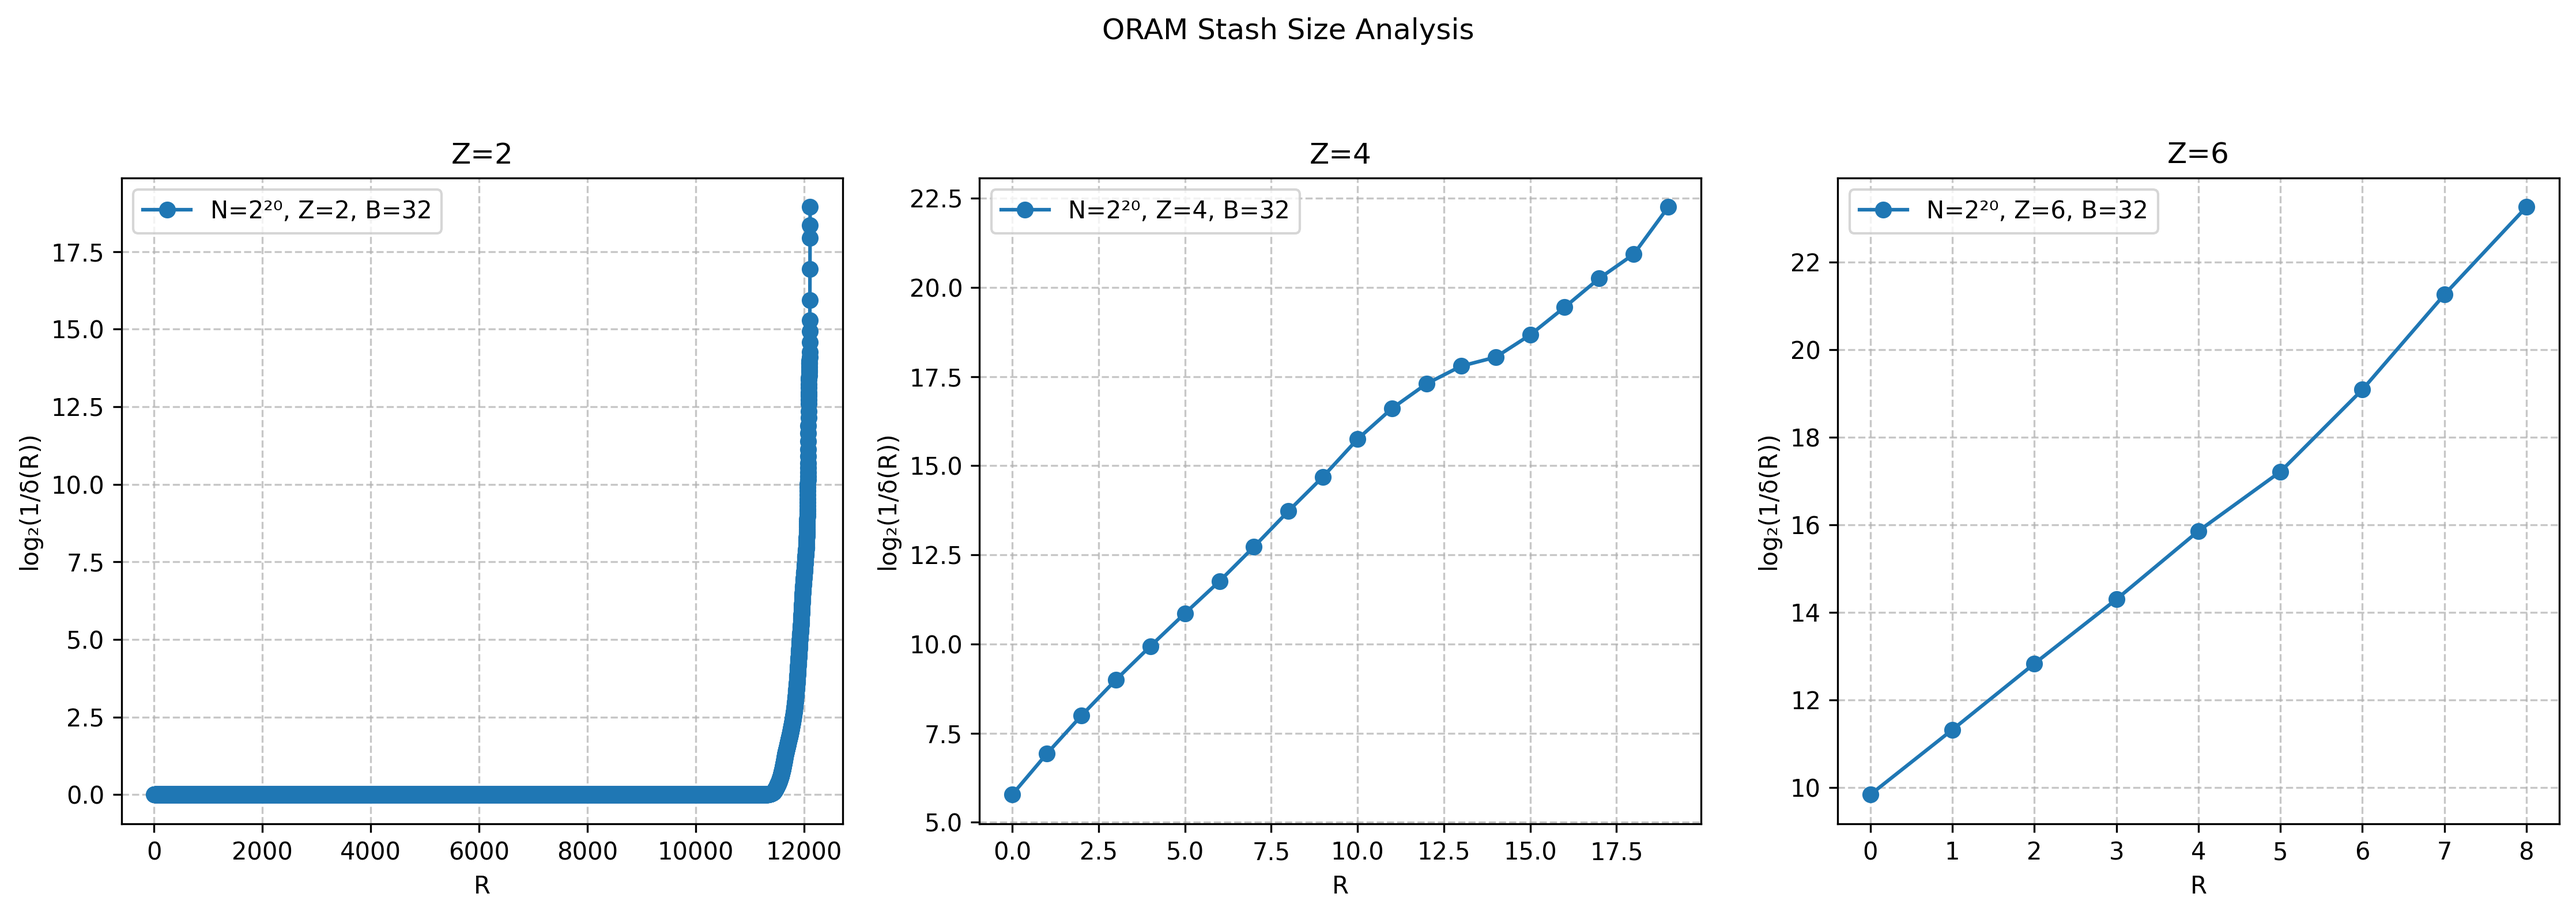
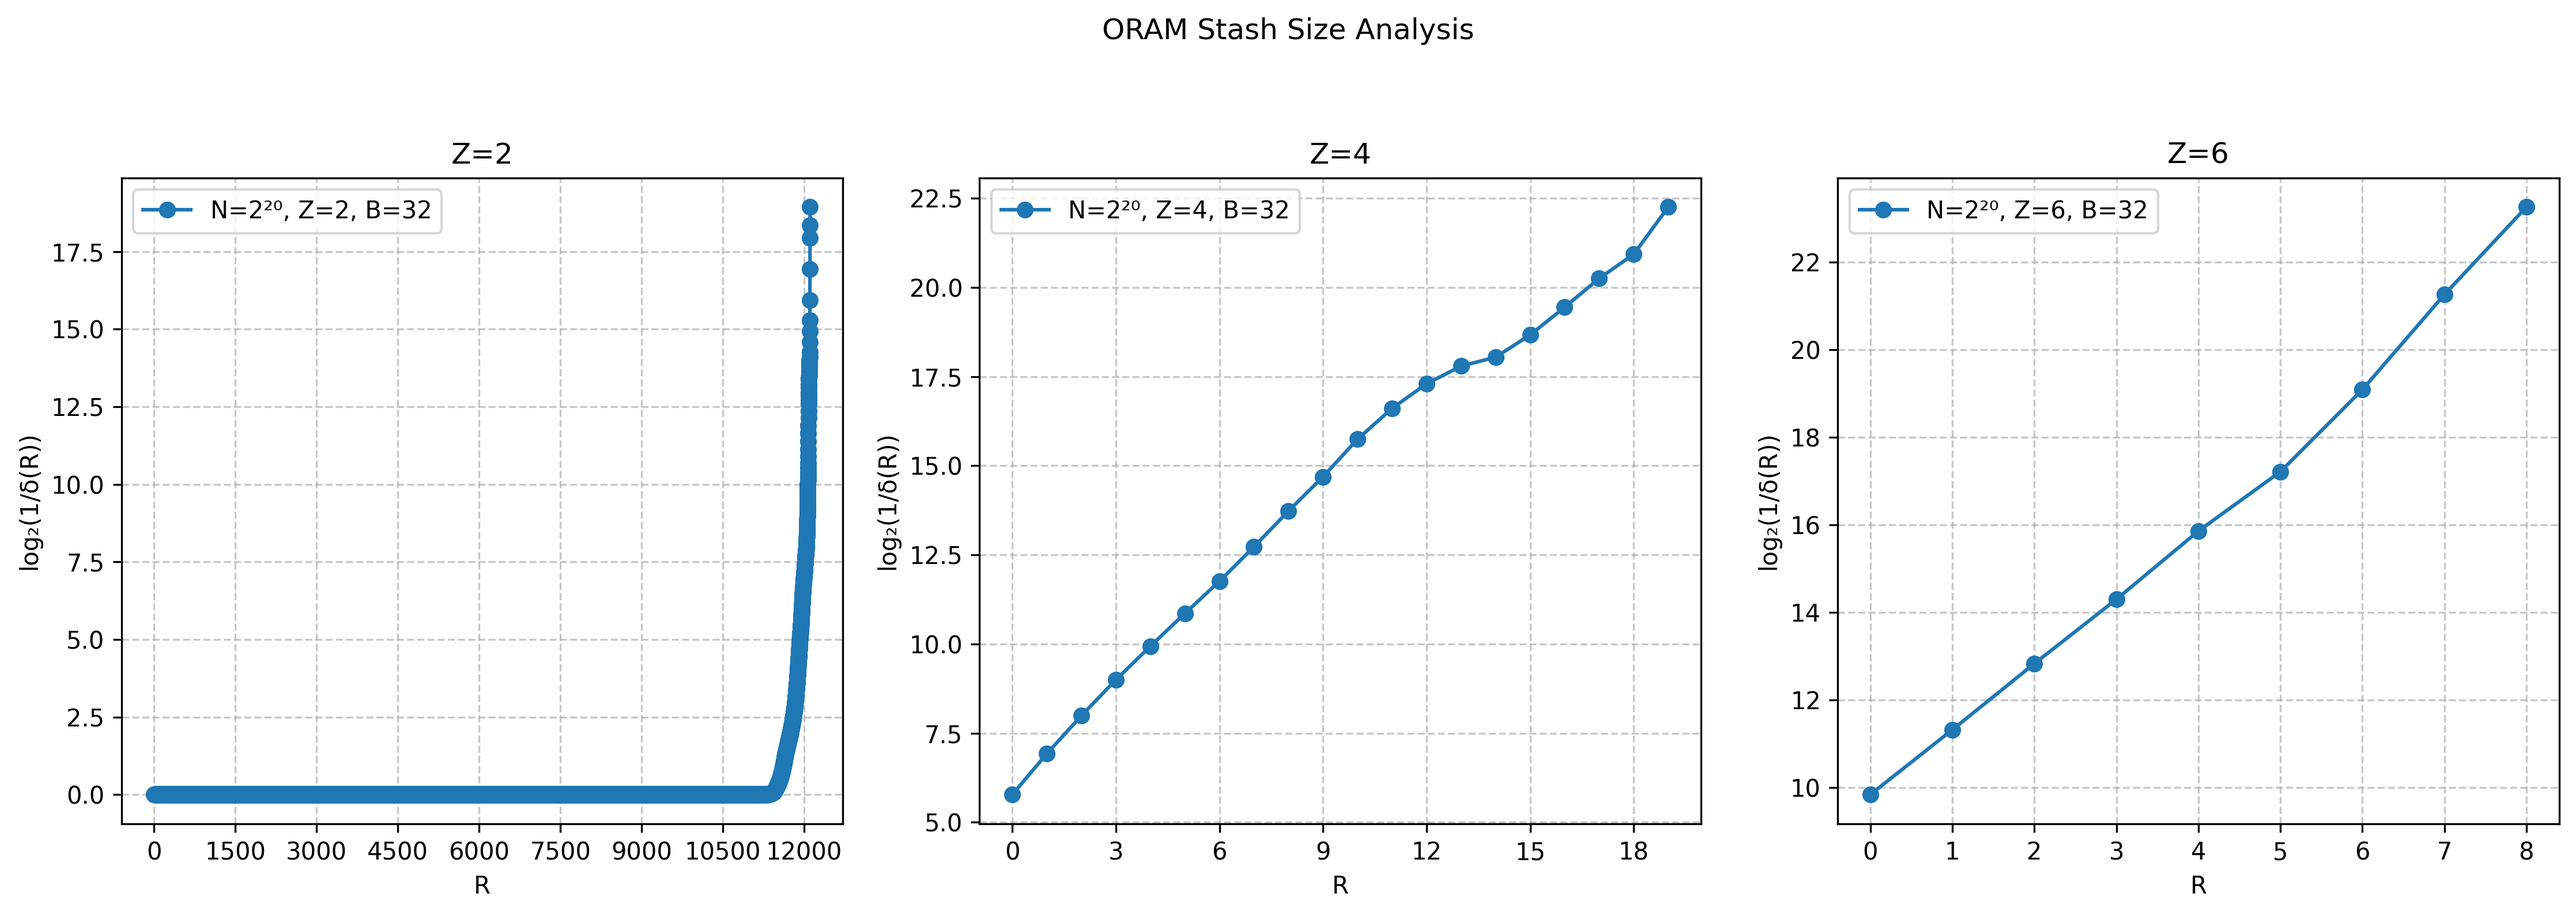
fix: x axis

diff --git a/plot.py b/plot.py
@@ -63,6 +63,9 @@ for idx, (Z, filename, label) in enumerate(configurations, 1):
         plt.grid(True, which="both", linestyle="--", alpha=0.7)
         plt.legend()
 
+        ax = plt.gca()
+        ax.xaxis.set_major_locator(plt.MaxNLocator(integer=True))
+
 plt.suptitle("ORAM Stash Size Analysis", y=1.05)
 plt.tight_layout()
 plt.savefig("data/plot.png", bbox_inches="tight", dpi=300)
